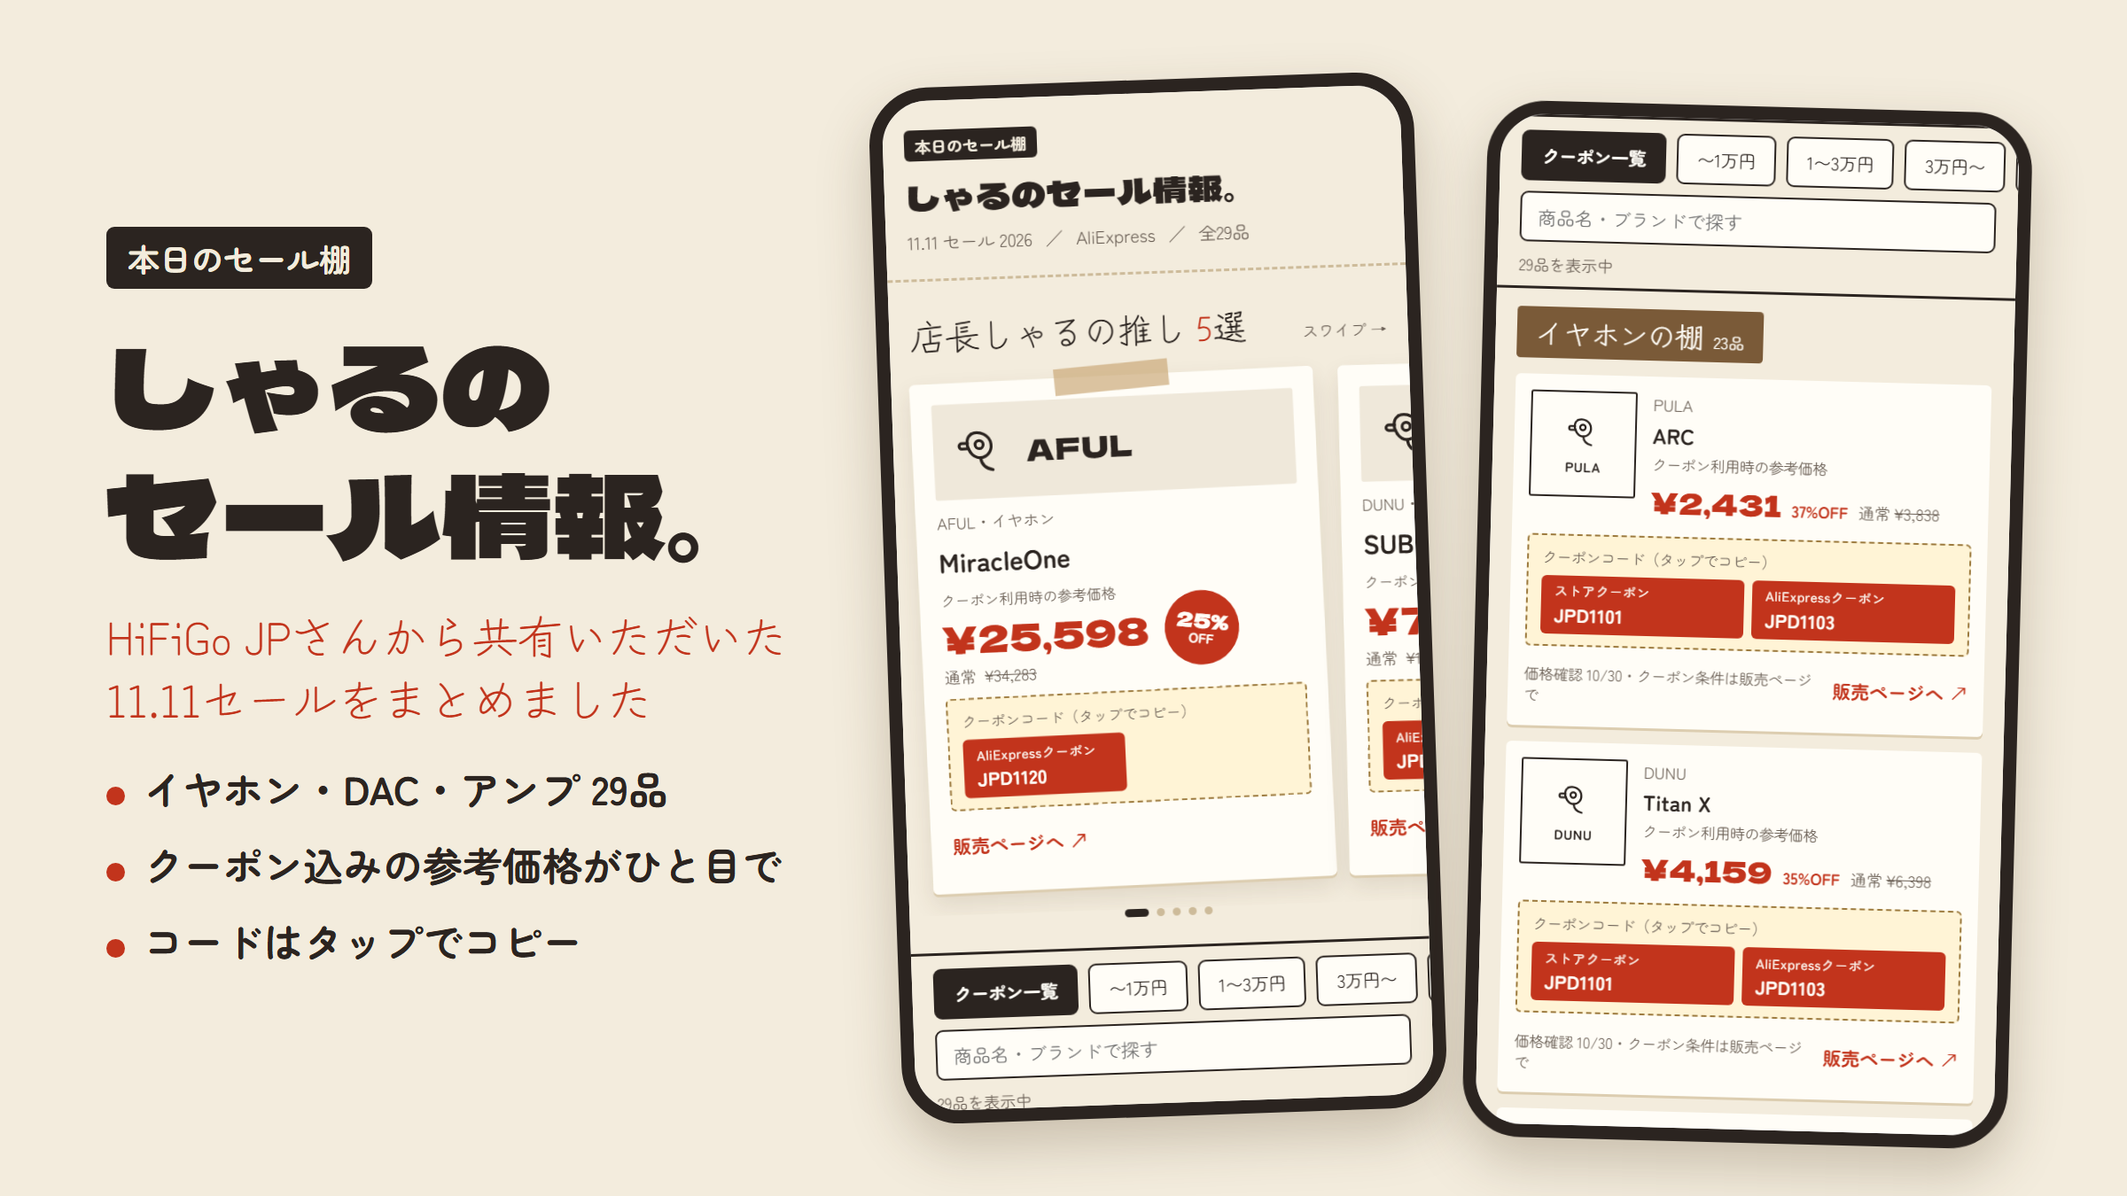
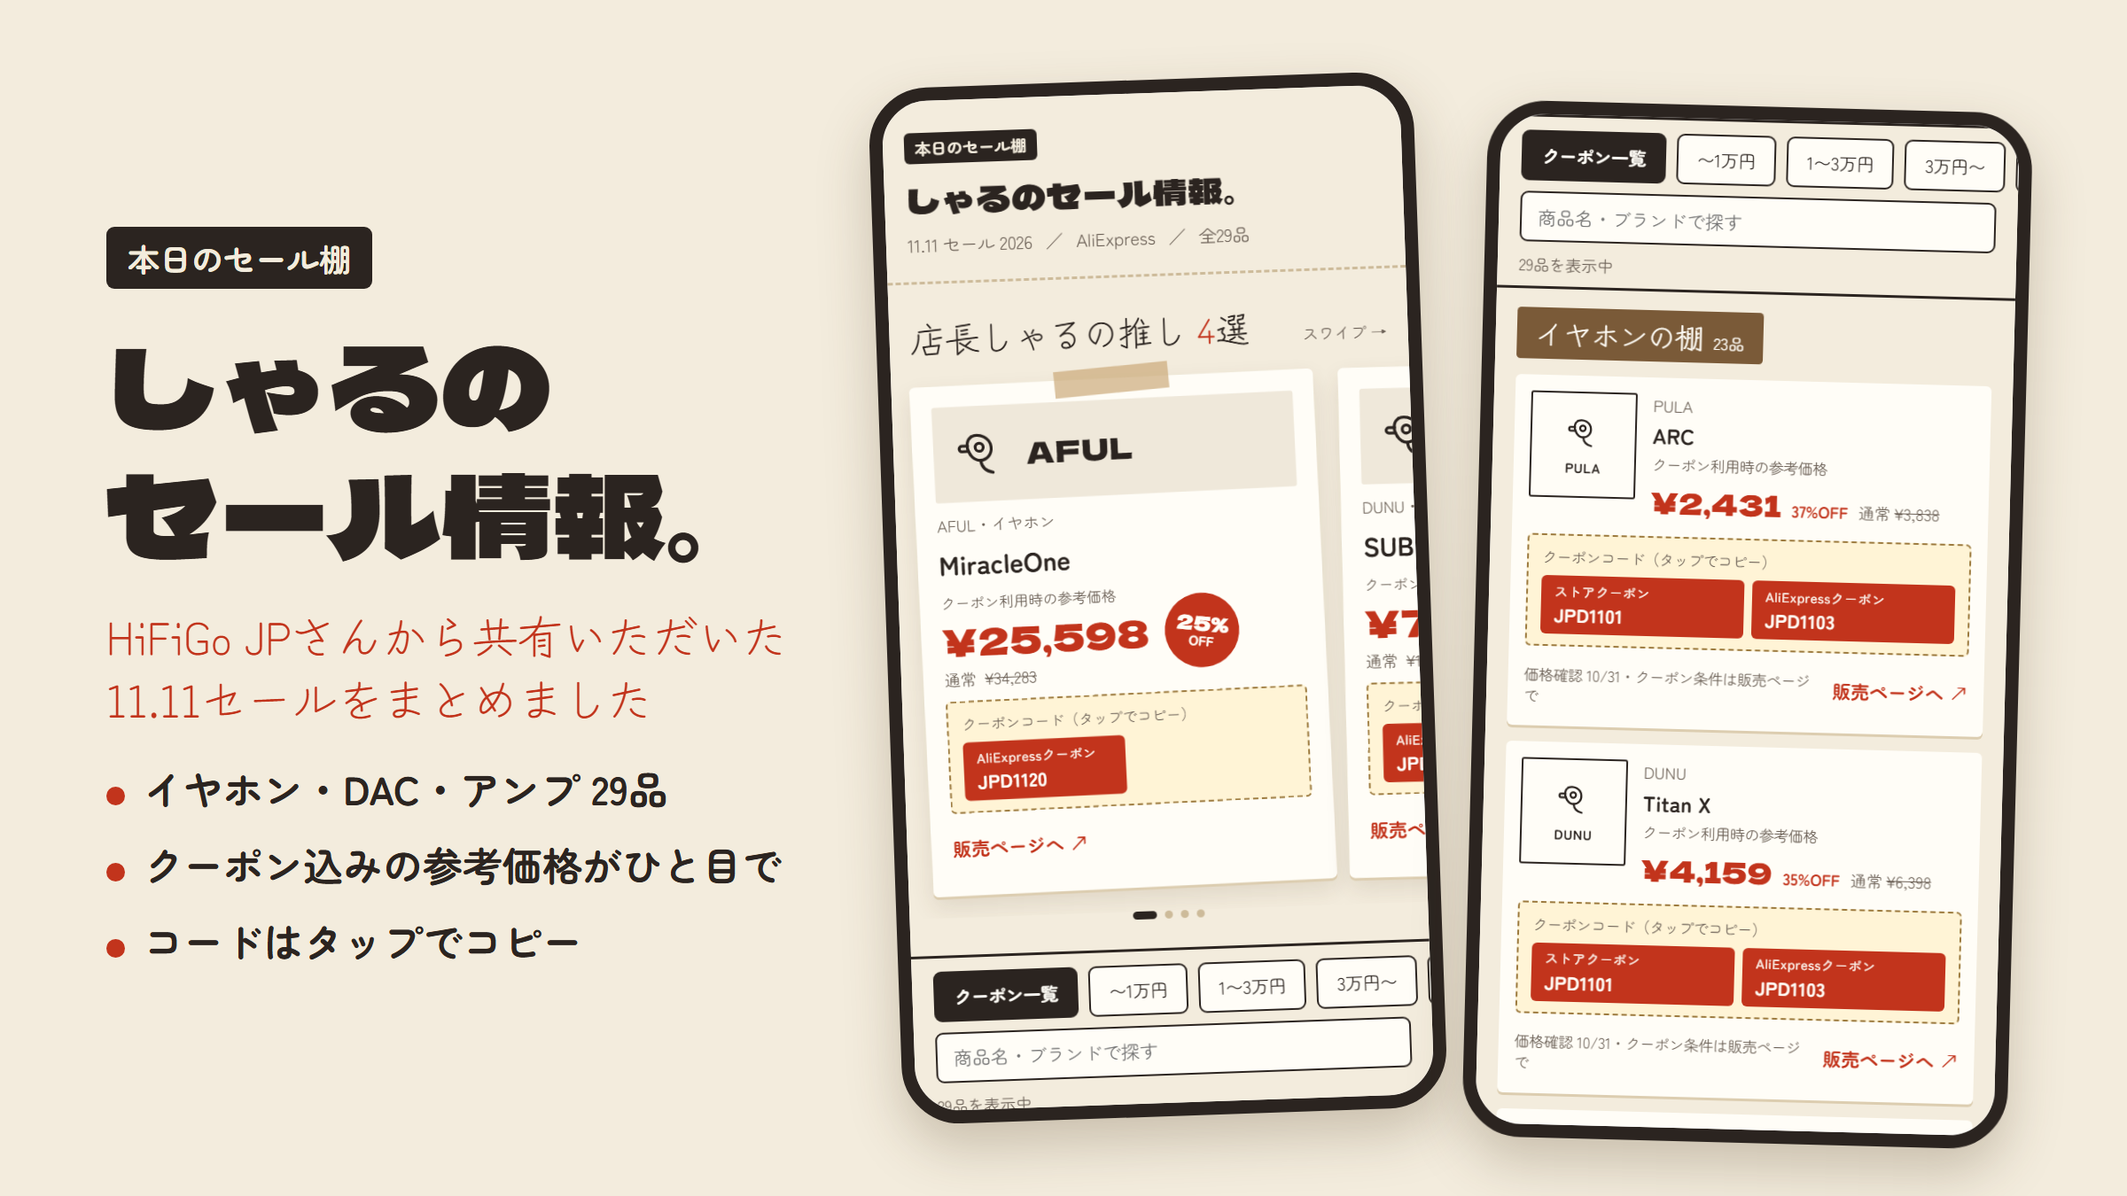
セール情報を更新 2026-10-31 19:25

diff --git a/index.html b/index.html
@@ -100,6 +100,7 @@ select.chip{padding-right:28px;appearance:none;background-image:linear-gradient(
 .regular s{margin-left:3px}
 .ticket{background:var(--ticket);border:1.5px dashed var(--ticket-line);border-radius:4px;padding:8px 10px;display:flex;flex-direction:column;gap:6px}
 .ticket-title{font-size:11px;color:var(--muted)}
+.auto-discount{font-size:12px;font-weight:700;color:var(--red-dark)}
 .codes{display:grid;grid-template-columns:repeat(2,minmax(0,1fr));gap:6px}
 .code{display:inline-flex;flex-direction:column;align-items:flex-start;justify-content:center;gap:1px;min-height:44px;padding:4px 10px;border-radius:4px;border:0;background:var(--red);color:var(--card);font-size:14px;font-weight:700;letter-spacing:.02em;cursor:pointer;text-align:left}
 .code span{font-size:10px;font-weight:500;opacity:.9}
@@ -171,7 +172,7 @@ dialog::backdrop{background:rgba(43,36,32,.45)}
 </dialog>
 <div class="toast" id="toast" role="status"></div>
 </template>
-<script type="application/json" id="site-data">{"campaign":{"title":"11.11 セール 2026","shop":"AliExpress","start":"","end":"","checkedAt":"2026-10-30","draftNotice":"","priceLabel":"クーポン利用時の参考価格","couponKinds":{"storeCode":"ストアクーポン","aliCode":"AliExpressクーポン"},"categoryOrder":["イヤホン","ヘッドホン","DAC・アンプ"],"priceBands":[{"id":"low","label":"〜1万円","min":0,"max":10000},{"id":"mid","label":"1〜3万円","min":10001,"max":30000},{"id":"high","label":"3万円〜","min":30001,"max":null}]},"products":[{"id":"001","brand":"AFUL","name":"MiracleOne","category":"イヤホン","salePriceJpy":25598,"regularPriceJpy":34283,"discountPct":25.33,"storeCode":null,"aliCode":"JPD1120","purchaseUrl":"https://www.aliexpress.com/item/1005013403054899.html","featured":true},{"id":"002","brand":"AFUL","name":"ICEBORNE","category":"DAC・アンプ","salePriceJpy":15999,"regularPriceJpy":23998,"discountPct":33.33,"storeCode":"JPD11HG10","aliCode":"JPD1110","purchaseUrl":"https://www.aliexpress.com/item/1005012253314766.html","featured":false},{"id":"003","brand":"AFUL","name":"Performer 8S","category":"イヤホン","salePriceJpy":42399,"regularPriceJpy":62398,"discountPct":32.05,"storeCode":"JPD11HG12","aliCode":"JPD1135","purchaseUrl":"https://www.aliexpress.com/item/1005010733634231.html","featured":false},{"id":"004","brand":"AFUL","name":"Performer 5+2","category":"イヤホン","salePriceJpy":25567,"regularPriceJpy":38398,"discountPct":33.42,"storeCode":"JPD11HG5","aliCode":"JPD1120","purchaseUrl":"https://www.aliexpress.com/item/1005007967664645.html","featured":false},{"id":"005","brand":"AFUL","name":"Dawn-X","category":"イヤホン","salePriceJpy":151872,"regularPriceJpy":207840,"discountPct":26.93,"storeCode":"JPD11HG20","aliCode":"JPD1170","purchaseUrl":"https://www.aliexpress.com/item/1005009921258338.html","featured":false},{"id":"006","brand":"AFUL","name":"Cantor","category":"イヤホン","salePriceJpy":83080,"regularPriceJpy":127840,"discountPct":35.01,"storeCode":"JPD11HG10","aliCode":"JPD1170","purchaseUrl":"https://www.aliexpress.com/item/1005007567713924.html","featured":false},{"id":"007","brand":"DUNU","name":"SUBSURGE 淵","category":"イヤホン","salePriceJpy":7838,"regularPriceJpy":10283,"discountPct":23.78,"storeCode":null,"aliCode":"JPD1105","purchaseUrl":"https://www.aliexpress.com/item/1005013469080252.html","featured":true},{"id":"008","brand":"DUNU","name":"Davinci VITRUVIAN","category":"イヤホン","salePriceJpy":39198,"regularPriceJpy":53331,"discountPct":26.5,"storeCode":null,"aliCode":"JPD1135","purchaseUrl":"https://www.aliexpress.com/item/1005013485902122.html","featured":true},{"id":"009","brand":"DUNU","name":"PRS6","category":"イヤホン","salePriceJpy":30256,"regularPriceJpy":39840,"discountPct":24.06,"storeCode":null,"aliCode":"JPD1135","purchaseUrl":"https://www.aliexpress.com/item/1005013154838255.html","featured":false},{"id":"010","brand":"DUNU","name":"Titan X","category":"イヤホン","salePriceJpy":4159,"regularPriceJpy":6398,"discountPct":35,"storeCode":"JPD1101","aliCode":"JPD1103","purchaseUrl":"https://www.aliexpress.com/item/1005011688328267.html","featured":false},{"id":"011","brand":"DUNU","name":"ITO","category":"イヤホン","salePriceJpy":21599,"regularPriceJpy":31998,"discountPct":32.5,"storeCode":"JPD11HG5","aliCode":"JPD1120","purchaseUrl":"https://www.aliexpress.com/item/1005009629363739.html","featured":false},{"id":"012","brand":"DUNU","name":"Davinci","category":"イヤホン","salePriceJpy":28639,"regularPriceJpy":47998,"discountPct":40.33,"storeCode":"JPD11HG5","aliCode":"JPD1135","purchaseUrl":"https://www.aliexpress.com/item/1005006968062969.html","featured":true},{"id":"013","brand":"DUNU","name":"DN242","category":"イヤホン","salePriceJpy":39072,"regularPriceJpy":55840,"discountPct":30.03,"storeCode":null,"aliCode":"JPD1135","purchaseUrl":"https://www.aliexpress.com/item/1005010273017157.html","featured":false},{"id":"014","brand":"DUNU","name":"DN142","category":"イヤホン","salePriceJpy":30266,"regularPriceJpy":39840,"discountPct":24.03,"storeCode":null,"aliCode":"JPD1120","purchaseUrl":"https://www.aliexpress.com/item/1005010382193221.html","featured":false},{"id":"015","brand":"JUZEAR","name":"Defiant","category":"イヤホン","salePriceJpy":10879,"regularPriceJpy":15998,"discountPct":32,"storeCode":"JPD1102","aliCode":"JPD1110","purchaseUrl":"https://www.aliexpress.com/item/1005008819170216.html","featured":false},{"id":"016","brand":"JUZEAR","name":"Fiesta","category":"イヤホン","salePriceJpy":12799,"regularPriceJpy":19198,"discountPct":33.33,"storeCode":"JPD11HG6","aliCode":"JPD1110","purchaseUrl":"https://www.aliexpress.com/item/1005012187899336.html","featured":false},{"id":"017","brand":"JUZEAR","name":"Nimbus","category":"イヤホン","salePriceJpy":6271,"regularPriceJpy":8798,"discountPct":28.72,"storeCode":"JPD1102","aliCode":"JPD1105","purchaseUrl":"https://www.aliexpress.com/item/1005012898663425.html","featured":false},{"id":"018","brand":"JUZEAR","name":"Light Shuttle","category":"イヤホン","salePriceJpy":21535,"regularPriceJpy":30398,"discountPct":29.16,"storeCode":"JPD11HG5","aliCode":"JPD1120","purchaseUrl":"https://www.aliexpress.com/item/1005012979516171.html","featured":false},{"id":"019","brand":"JUZEAR","name":"Defiant Gaming","category":"イヤホン","salePriceJpy":11999,"regularPriceJpy":17598,"discountPct":31.82,"storeCode":"JPD11HG3","aliCode":"JPD1110","purchaseUrl":"https://www.aliexpress.com/item/1005010757580410.html","featured":false},{"id":"020","brand":"JUZEAR","name":"Nebula","category":"イヤホン","salePriceJpy":14239,"regularPriceJpy":20798,"discountPct":31.54,"storeCode":"JPD11HG5","aliCode":"JPD1110","purchaseUrl":"https://www.aliexpress.com/item/1005012382358820.html","featured":false},{"id":"021","brand":"MuseHiFi","name":"M7","category":"DAC・アンプ","salePriceJpy":52000,"regularPriceJpy":72190,"discountPct":27.97,"storeCode":null,"aliCode":"JPD1154","purchaseUrl":"https://www.aliexpress.com/item/1005013473113626.html","featured":false},{"id":"022","brand":"MuseHiFi","name":"M3 Ultra","category":"DAC・アンプ","salePriceJpy":12703,"regularPriceJpy":17598,"discountPct":27.82,"storeCode":"JPD11HG3","aliCode":"JPD1110","purchaseUrl":"https://www.aliexpress.com/item/1005012249645174.html","featured":true},{"id":"023","brand":"MuseHiFi","name":"U3","category":"DAC・アンプ","salePriceJpy":3391,"regularPriceJpy":4798,"discountPct":29.32,"storeCode":"JPD1101","aliCode":"JPD1103","purchaseUrl":"https://www.aliexpress.com/item/1005013223092416.html","featured":false},{"id":"024","brand":"MuseHiFi","name":"M6 Double","category":"DAC・アンプ","salePriceJpy":45469,"regularPriceJpy":63840,"discountPct":28.78,"storeCode":"JPD11HG8","aliCode":"JPD1135","purchaseUrl":"https://www.aliexpress.com/item/1005010177372354.html","featured":false},{"id":"025","brand":"MuseHiFi","name":"Muse300","category":"DAC・アンプ","salePriceJpy":49919,"regularPriceJpy":75198,"discountPct":33.62,"storeCode":null,"aliCode":"JPD1154","purchaseUrl":"https://www.aliexpress.com/item/1005012799393761.html","featured":false},{"id":"026","brand":"PULA","name":"ARC","category":"イヤホン","salePriceJpy":2431,"regularPriceJpy":3838,"discountPct":36.66,"storeCode":"JPD1101","aliCode":"JPD1103","purchaseUrl":"https://www.aliexpress.com/item/1005012652328787.html","featured":false},{"id":"027","brand":"Binary","name":"EP321-MEMS","category":"イヤホン","salePriceJpy":35263,"regularPriceJpy":49598,"discountPct":28.9,"storeCode":"JPD11HG5","aliCode":"JPD1135","purchaseUrl":"https://www.aliexpress.com/item/1005010452473354.html","featured":false},{"id":"028","brand":"Binary","name":"1900","category":"イヤホン","salePriceJpy":27104,"regularPriceJpy":37600,"discountPct":27.91,"storeCode":"JPD11HG8","aliCode":"JPD1120","purchaseUrl":"https://www.aliexpress.com/item/1005012664713633.html","featured":false},{"id":"029","brand":"SeeAudio","name":"Neko","category":"イヤホン","salePriceJpy":87874,"regularPriceJpy":127840,"discountPct":31.26,"storeCode":"JPD11HG12","aliCode":"JPD1170","purchaseUrl":"https://www.aliexpress.com/item/3256805766224029.html","featured":false}]}</script>
+<script type="application/json" id="site-data">{"campaign":{"title":"11.11 セール 2026","shop":"AliExpress","start":"","end":"","checkedAt":"2026-10-31","draftNotice":"","priceLabel":"クーポン利用時の参考価格","couponKinds":{"storeCode":"ストアクーポン","aliCode":"AliExpressクーポン"},"categoryOrder":["イヤホン","ヘッドホン","DAC・アンプ"],"priceBands":[{"id":"low","label":"〜1万円","min":0,"max":10000},{"id":"mid","label":"1〜3万円","min":10001,"max":30000},{"id":"high","label":"3万円〜","min":30001,"max":null}]},"products":[{"id":"001","brand":"AFUL","name":"MiracleOne","category":"イヤホン","salePriceJpy":25598,"regularPriceJpy":34283,"discountPct":25.33,"storeCode":null,"aliCode":"JPD1120","purchaseUrl":"https://www.aliexpress.com/item/1005013403054899.html","featured":true},{"id":"002","brand":"AFUL","name":"ICEBORNE","category":"DAC・アンプ","salePriceJpy":15999,"regularPriceJpy":23998,"discountPct":33.33,"storeCode":"JPD11HG10","aliCode":"JPD1110","purchaseUrl":"https://www.aliexpress.com/item/1005012253314766.html","featured":false},{"id":"003","brand":"AFUL","name":"Performer 8S","category":"イヤホン","salePriceJpy":42399,"regularPriceJpy":62398,"discountPct":32.05,"storeCode":"JPD11HG12","aliCode":"JPD1135","purchaseUrl":"https://www.aliexpress.com/item/1005010733634231.html","featured":false},{"id":"004","brand":"AFUL","name":"Performer 5+2","category":"イヤホン","salePriceJpy":25567,"regularPriceJpy":38398,"discountPct":33.42,"storeCode":"JPD11HG5","aliCode":"JPD1120","purchaseUrl":"https://www.aliexpress.com/item/1005007967664645.html","featured":false},{"id":"005","brand":"AFUL","name":"Dawn-X","category":"イヤホン","salePriceJpy":151872,"regularPriceJpy":207840,"discountPct":26.93,"storeCode":"JPD11HG20","aliCode":"JPD1170","purchaseUrl":"https://www.aliexpress.com/item/1005009921258338.html","featured":false},{"id":"006","brand":"AFUL","name":"Cantor","category":"イヤホン","salePriceJpy":83080,"regularPriceJpy":127840,"discountPct":35.01,"storeCode":"JPD11HG10","aliCode":"JPD1170","purchaseUrl":"https://www.aliexpress.com/item/1005007567713924.html","featured":false},{"id":"007","brand":"DUNU","name":"SUBSURGE 淵","category":"イヤホン","salePriceJpy":7838,"regularPriceJpy":10283,"discountPct":23.78,"storeCode":null,"aliCode":"JPD1105","purchaseUrl":"https://www.aliexpress.com/item/1005013469080252.html","featured":true},{"id":"008","brand":"DUNU","name":"Davinci VITRUVIAN","category":"イヤホン","salePriceJpy":39198,"regularPriceJpy":53331,"discountPct":26.5,"storeCode":null,"aliCode":"JPD1135","purchaseUrl":"https://www.aliexpress.com/item/1005013485902122.html","featured":true},{"id":"009","brand":"DUNU","name":"PRS6","category":"イヤホン","salePriceJpy":30256,"regularPriceJpy":39840,"discountPct":24.06,"storeCode":null,"aliCode":"JPD1135","purchaseUrl":"https://www.aliexpress.com/item/1005013154838255.html","featured":false},{"id":"010","brand":"DUNU","name":"Titan X","category":"イヤホン","salePriceJpy":4159,"regularPriceJpy":6398,"discountPct":35,"storeCode":"JPD1101","aliCode":"JPD1103","purchaseUrl":"https://www.aliexpress.com/item/1005011688328267.html","featured":false},{"id":"011","brand":"DUNU","name":"ITO","category":"イヤホン","salePriceJpy":21599,"regularPriceJpy":31998,"discountPct":32.5,"storeCode":"JPD11HG5","aliCode":"JPD1120","purchaseUrl":"https://www.aliexpress.com/item/1005009629363739.html","featured":false},{"id":"012","brand":"DUNU","name":"Davinci","category":"イヤホン","salePriceJpy":28639,"regularPriceJpy":47998,"discountPct":40.33,"storeCode":"JPD11HG5","aliCode":"JPD1135","purchaseUrl":"https://www.aliexpress.com/item/1005006968062969.html","featured":false},{"id":"013","brand":"DUNU","name":"DN242","category":"イヤホン","salePriceJpy":39072,"regularPriceJpy":55840,"discountPct":30.03,"storeCode":null,"aliCode":"JPD1135","purchaseUrl":"https://www.aliexpress.com/item/1005010273017157.html","featured":false},{"id":"014","brand":"DUNU","name":"DN142","category":"イヤホン","salePriceJpy":30266,"regularPriceJpy":39840,"discountPct":24.03,"storeCode":null,"aliCode":"JPD1120","purchaseUrl":"https://www.aliexpress.com/item/1005010382193221.html","featured":false},{"id":"015","brand":"JUZEAR","name":"Defiant","category":"イヤホン","salePriceJpy":10879,"regularPriceJpy":15998,"discountPct":32,"storeCode":"JPD1102","aliCode":"JPD1110","purchaseUrl":"https://www.aliexpress.com/item/1005008819170216.html","featured":false},{"id":"016","brand":"JUZEAR","name":"Fiesta","category":"イヤホン","salePriceJpy":12799,"regularPriceJpy":19198,"discountPct":33.33,"storeCode":"JPD11HG6","aliCode":"JPD1110","purchaseUrl":"https://www.aliexpress.com/item/1005012187899336.html","featured":false},{"id":"017","brand":"JUZEAR","name":"Nimbus","category":"イヤホン","salePriceJpy":6271,"regularPriceJpy":8798,"discountPct":28.72,"storeCode":"JPD1102","aliCode":"JPD1105","purchaseUrl":"https://www.aliexpress.com/item/1005012898663425.html","featured":false},{"id":"018","brand":"JUZEAR","name":"Light Shuttle","category":"イヤホン","salePriceJpy":21535,"regularPriceJpy":30398,"discountPct":29.16,"storeCode":"JPD11HG5","aliCode":"JPD1120","purchaseUrl":"https://www.aliexpress.com/item/1005012979516171.html","featured":false},{"id":"019","brand":"JUZEAR","name":"Defiant Gaming","category":"イヤホン","salePriceJpy":11999,"regularPriceJpy":17598,"discountPct":31.82,"storeCode":"JPD11HG3","aliCode":"JPD1110","purchaseUrl":"https://www.aliexpress.com/item/1005010757580410.html","featured":false},{"id":"020","brand":"JUZEAR","name":"Nebula","category":"イヤホン","salePriceJpy":14239,"regularPriceJpy":20798,"discountPct":31.54,"storeCode":"JPD11HG5","aliCode":"JPD1110","purchaseUrl":"https://www.aliexpress.com/item/1005012382358820.html","featured":false},{"id":"021","brand":"MuseHiFi","name":"M7","category":"DAC・アンプ","salePriceJpy":52000,"regularPriceJpy":72190,"discountPct":27.97,"storeCode":null,"aliCode":"JPD1154","purchaseUrl":"https://www.aliexpress.com/item/1005013473113626.html","featured":false},{"id":"022","brand":"MuseHiFi","name":"M3 Ultra","category":"DAC・アンプ","salePriceJpy":12703,"regularPriceJpy":17598,"discountPct":27.82,"storeCode":"JPD11HG3","aliCode":"JPD1110","purchaseUrl":"https://www.aliexpress.com/item/1005012249645174.html","featured":true},{"id":"023","brand":"MuseHiFi","name":"U3","category":"DAC・アンプ","salePriceJpy":3391,"regularPriceJpy":4798,"discountPct":29.32,"storeCode":"JPD1101","aliCode":"JPD1103","purchaseUrl":"https://www.aliexpress.com/item/1005013223092416.html","featured":false},{"id":"024","brand":"MuseHiFi","name":"M6 Double","category":"DAC・アンプ","salePriceJpy":45469,"regularPriceJpy":63840,"discountPct":28.78,"storeCode":"JPD11HG8","aliCode":"JPD1135","purchaseUrl":"https://www.aliexpress.com/item/1005010177372354.html","featured":false},{"id":"025","brand":"MuseHiFi","name":"Muse300","category":"DAC・アンプ","salePriceJpy":49919,"regularPriceJpy":75198,"discountPct":33.62,"storeCode":null,"aliCode":"JPD1154","purchaseUrl":"https://www.aliexpress.com/item/1005012799393761.html","featured":false,"autoDiscount":"ストア値引き $10（コード不要）"},{"id":"026","brand":"PULA","name":"ARC","category":"イヤホン","salePriceJpy":2431,"regularPriceJpy":3838,"discountPct":36.66,"storeCode":"JPD1101","aliCode":"JPD1103","purchaseUrl":"https://www.aliexpress.com/item/1005012652328787.html","featured":false},{"id":"027","brand":"Binary","name":"EP321-MEMS","category":"イヤホン","salePriceJpy":35263,"regularPriceJpy":49598,"discountPct":28.9,"storeCode":"JPD11HG5","aliCode":"JPD1135","purchaseUrl":"https://www.aliexpress.com/item/1005010452473354.html","featured":false},{"id":"028","brand":"Binary","name":"1900","category":"イヤホン","salePriceJpy":27104,"regularPriceJpy":37600,"discountPct":27.91,"storeCode":"JPD11HG8","aliCode":"JPD1120","purchaseUrl":"https://www.aliexpress.com/item/1005012664713633.html","featured":false},{"id":"029","brand":"SeeAudio","name":"Neko","category":"イヤホン","salePriceJpy":87874,"regularPriceJpy":127840,"discountPct":31.26,"storeCode":"JPD11HG12","aliCode":"JPD1170","purchaseUrl":"https://www.aliexpress.com/item/3256805766224029.html","featured":false}]}</script>
 <script id="app">
 /* ページ本体。データは上の site-data にあり */
 (function () {
@@ -197,7 +198,8 @@ const visual = (p, cls) => p.image
   ? `<div class="${cls}"><img src="${esc(p.image)}" alt="${esc(p.brand + " " + p.name)}" loading="lazy"></div>`
   : `<div class="${cls} tile" aria-hidden="true">${icon(p.category)}<span class="tile-brand">${esc(p.brand)}</span></div>`;
 const codeButtons = p => couponsOf(p).map(c => `<button type="button" class="code" data-copy="${esc(c.code)}" aria-label="${esc(c.label)} ${esc(c.code)} をコピー"><span>${esc(c.label)}</span>${esc(c.code)}</button>`).join("");
-const ticket = p => couponsOf(p).length ? `<div class="ticket"><span class="ticket-title">クーポンコード（タップでコピー）</span><div class="codes">${codeButtons(p)}</div></div>` : "";
+// autoDiscount はコードのいらない値引き（ストアの自動値引きなど）。価格には含まれている
+const ticket = p => couponsOf(p).length || p.autoDiscount ? `<div class="ticket">${p.autoDiscount ? `<span class="auto-discount">${esc(p.autoDiscount)}</span>` : ""}${couponsOf(p).length ? `<span class="ticket-title">クーポンコード（タップでコピー）</span><div class="codes">${codeButtons(p)}</div>` : ""}</div>` : "";
 
 // ヘッダー
 $("meta").innerHTML = [esc(campaign.title), campaign.start && campaign.end ? `${md(campaign.start)}〜${md(campaign.end)}` : "", esc(campaign.shop), `全${visible.length}品`].filter(Boolean).map(s => `<span>${s}</span>`).join('<span aria-hidden="true">／</span>');
